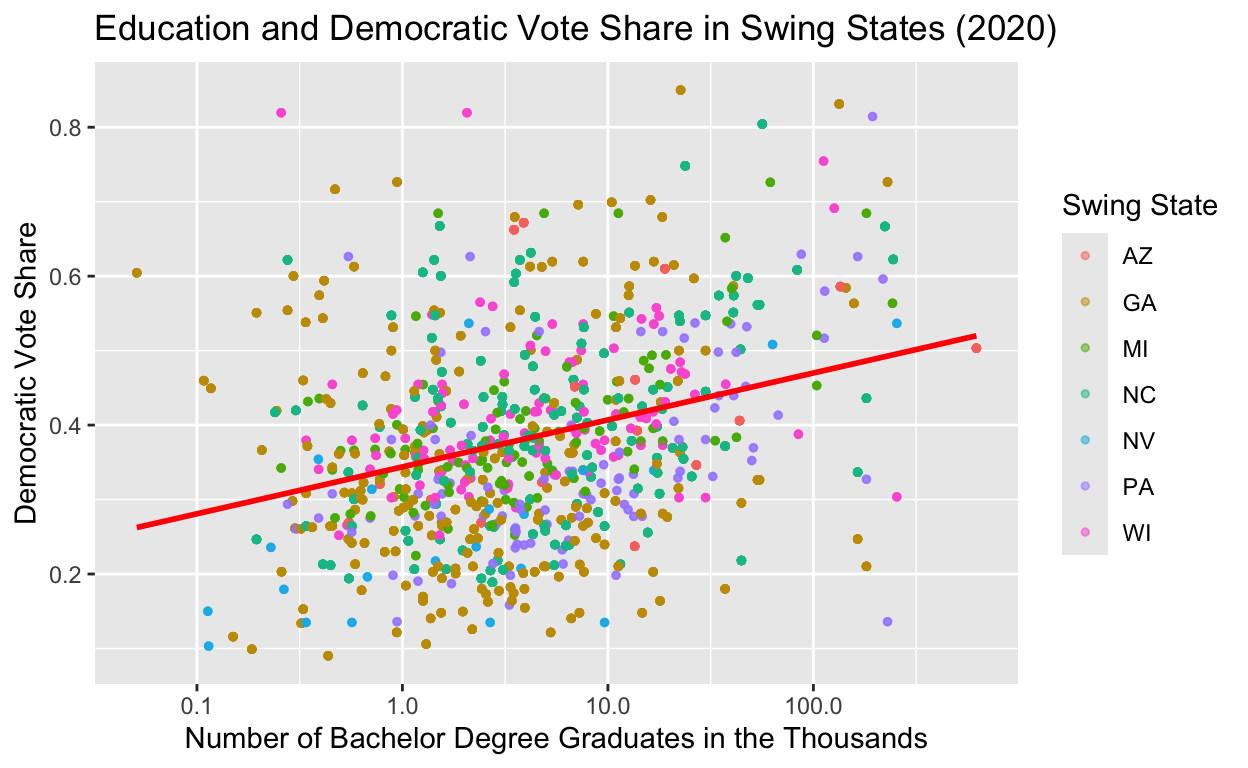
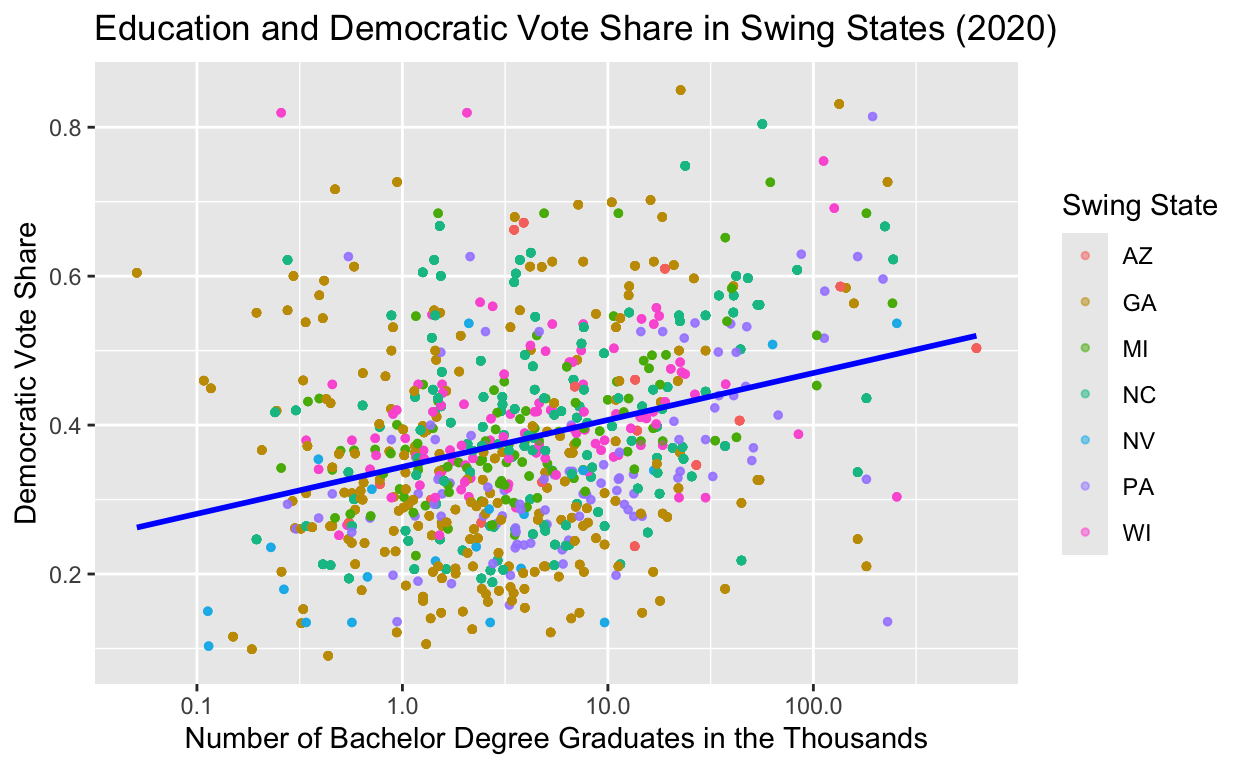
start of pm4

diff --git a/index.html b/index.html
@@ -116,7 +116,7 @@ code span.wa { color: #5e5e5e; font-style: italic; } /* Warning */
   <!--/radix_placeholder_rmarkdown_metadata-->
   
   <script type="text/json" id="radix-resource-manifest">
-  {"type":"character","attributes":{},"value":["data/countypres_2000-2024.csv","index_files/anchor-4.2.2/anchor.min.js","index_files/bowser-1.9.3/bowser.min.js","index_files/distill-2.2.21/template.v2.js","index_files/figure-html5/unnamed-chunk-5-1.png","index_files/header-attrs-2.17/header-attrs.js","index_files/header-attrs-2.30/header-attrs.js","index_files/jquery-3.6.0/jquery-3.6.0.js","index_files/jquery-3.6.0/jquery-3.6.0.min.js","index_files/jquery-3.6.0/jquery-3.6.0.min.map","index_files/popper-2.6.0/popper.min.js","index_files/tippy-6.2.7/tippy-bundle.umd.min.js","index_files/tippy-6.2.7/tippy-light-border.css","index_files/tippy-6.2.7/tippy.css","index_files/tippy-6.2.7/tippy.umd.min.js","index_files/webcomponents-2.0.0/webcomponents.js"]}
+  {"type":"character","attributes":{},"value":["data/countypres_2000-2024.csv","index_files/anchor-4.2.2/anchor.min.js","index_files/bowser-1.9.3/bowser.min.js","index_files/distill-2.2.21/template.v2.js","index_files/figure-html5/unnamed-chunk-5-1.png","index_files/figure-html5/unnamed-chunk-6-1.png","index_files/figure-html5/unnamed-chunk-7-1.png","index_files/header-attrs-2.17/header-attrs.js","index_files/header-attrs-2.30/header-attrs.js","index_files/jquery-3.6.0/jquery-3.6.0.js","index_files/jquery-3.6.0/jquery-3.6.0.min.js","index_files/jquery-3.6.0/jquery-3.6.0.min.map","index_files/popper-2.6.0/popper.min.js","index_files/tippy-6.2.7/tippy-bundle.umd.min.js","index_files/tippy-6.2.7/tippy-light-border.css","index_files/tippy-6.2.7/tippy.css","index_files/tippy-6.2.7/tippy.umd.min.js","index_files/webcomponents-2.0.0/webcomponents.js"]}
   </script>
   <!--radix_placeholder_navigation_in_header-->
   <!--/radix_placeholder_navigation_in_header-->
@@ -1547,9 +1547,9 @@ code span.wa { color: #5e5e5e; font-style: italic; } /* Warning */
 <h2 id="project-thoughts">Project thoughts</h2>
 <p>I am interested in exploring data related to swing and battleground states. I am from Minnesota, which is the longest-standing “blue” state since 1976. But now I live in a key swing state- Wisconsin being a huge factor in presidential election victories. I want to look into data about what factors leads states to swing certain ways and how it changes across elections. I would like to look into candidate’s platforms over the recent presidential elections, as well as geographic and demographic elements as well. Ultimately, the goal of the final project would be to get some sort of insight into what factors contribute to battleground states voting the way they do depending on the election year.</p>
 <h2 id="research-proposal">Research Proposal</h2>
-<p>My research question is: How do the current state demographics- and the fluctuation between election years- relate to which president and party key battleground state constituents cast their vote to? My hypothesis is that changes in education levels, racial demographics, and geographic changes/movement determine which party is expected to win in a swing state. More education, diversity, and urbanization leads to Democratic victory.This is rooted in the modern realignment theory, which is the idea that shifts in voter allegiance shifts based on cultural and economic issues. My explanatory variables of interest are education levels (college graduates), percent/number of non-white voters in the state, and distribution of populations is urban and rural areas. I want to look at the variation and how they have changed in comparison to which party won the state’s electoral college votes. My outcome variable will be the percentage of Democrat votes that given election year. To prove my hypothesis I would need to see positive change in regard to the variables in the same election cycle that the Democrat nominee won the presidency.</p>
+<p>My research question is: How do the current state education statistics- and the fluctuation between election years- relate to which president and party key battleground state constituents cast their vote to? My hypothesis is that changes in education levels determine which party is expected to win in a swing state. More education leads to Democratic victory.This is rooted in the modern realignment theory, which is the idea that shifts in voter allegiance shifts based on cultural and economic issues. My explanatory variables of interest are education levels (college graduates). I want to look at the variation and how they have changed in comparison to which party won the state’s electoral college votes. My outcome variable will be the percentage of Democrat votes that given election year. To prove my hypothesis I would need to see positive change in regard to the variables in the same election cycle that the Democrat nominee won the presidency.</p>
 <h2 id="code-for-data-to-be-used-in-project">Code for Data to be Used in Project</h2>
-<p>I installed the tidycensus package to get the data for education, racial demography, and urbanization to compare across US censuses</p>
+<p>I installed the tidycensus package to get the data for education to compare across US censuses</p>
 <div class="layout-chunk" data-layout="l-body">
 <div class="sourceCode">
 <pre class="sourceCode r"><code class="sourceCode r"><span><span class='kw'><a href='https://rdrr.io/r/base/library.html'>library</a></span><span class='op'>(</span><span class='va'><a href='https://walker-data.com/tidycensus/'>tidycensus</a></span><span class='op'>)</span></span></code></pre>
@@ -1641,17 +1641,17 @@ $ mode           &lt;chr&gt; &quot;TOTAL&quot;, &quot;TOTAL&quot;, &quot;TOTAL&q
 5 B01001A_005 Estimate!!Total:!!Male:!!10 to 14 yea… SEX BY… tract    
 6 B01001A_006 Estimate!!Total:!!Male:!!15 to 17 yea… SEX BY… tract    </code></pre>
 <div class="sourceCode">
-<pre class="sourceCode r"><code class="sourceCode r"><span><span class='va'>education</span> <span class='op'>&lt;-</span> <span class='fu'><a href='https://walker-data.com/tidycensus/reference/get_acs.html'>get_acs</a></span><span class='op'>(</span></span>
+<pre class="sourceCode r"><code class="sourceCode r"><span><span class='va'>education_2020</span> <span class='op'>&lt;-</span> <span class='fu'><a href='https://walker-data.com/tidycensus/reference/get_acs.html'>get_acs</a></span><span class='op'>(</span></span>
 <span>  geography <span class='op'>=</span> <span class='st'>"county"</span>, </span>
 <span>  state <span class='op'>=</span> <span class='va'>swing_states</span>, </span>
 <span>  variables <span class='op'>=</span> <span class='st'>"B15003_022"</span>, </span>
 <span>  year <span class='op'>=</span> <span class='fl'>2020</span><span class='op'>)</span></span>
 <span></span>
 <span></span>
-<span><span class='va'>education</span><span class='op'>$</span><span class='va'>county_name</span> <span class='op'>&lt;-</span> <span class='fu'><a href='https://rdrr.io/r/base/grep.html'>gsub</a></span><span class='op'>(</span><span class='st'>" County,.*"</span>, <span class='st'>""</span>, <span class='va'>education</span><span class='op'>$</span><span class='va'>NAME</span><span class='op'>)</span></span>
-<span><span class='va'>education</span><span class='op'>$</span><span class='va'>county_name</span> <span class='op'>&lt;-</span> <span class='fu'><a href='https://rdrr.io/r/base/chartr.html'>toupper</a></span><span class='op'>(</span><span class='va'>education</span><span class='op'>$</span><span class='va'>county_name</span><span class='op'>)</span></span>
+<span><span class='va'>education_2020</span><span class='op'>$</span><span class='va'>county_name</span> <span class='op'>&lt;-</span> <span class='fu'><a href='https://rdrr.io/r/base/grep.html'>gsub</a></span><span class='op'>(</span><span class='st'>" County,.*"</span>, <span class='st'>""</span>, <span class='va'>education_2020</span><span class='op'>$</span><span class='va'>NAME</span><span class='op'>)</span></span>
+<span><span class='va'>education_2020</span><span class='op'>$</span><span class='va'>county_name</span> <span class='op'>&lt;-</span> <span class='fu'><a href='https://rdrr.io/r/base/chartr.html'>toupper</a></span><span class='op'>(</span><span class='va'>education_2020</span><span class='op'>$</span><span class='va'>county_name</span><span class='op'>)</span></span>
 <span></span>
-<span><span class='va'>swing2020_education</span> <span class='op'>&lt;-</span> <span class='fu'><a href='https://rdrr.io/r/base/merge.html'>merge</a></span><span class='op'>(</span><span class='va'>swing_2020</span>, <span class='va'>education</span>, by <span class='op'>=</span> <span class='st'>"county_name"</span><span class='op'>)</span></span></code></pre>
+<span><span class='va'>swing2020_education</span> <span class='op'>&lt;-</span> <span class='fu'><a href='https://rdrr.io/r/base/merge.html'>merge</a></span><span class='op'>(</span><span class='va'>swing_2020</span>, <span class='va'>education_2020</span>, by <span class='op'>=</span> <span class='st'>"county_name"</span><span class='op'>)</span></span></code></pre>
 </div>
 </div>
 <p>Lastly, I created a scatterplot to showcase my data to find a correlation between education and democratic votes in the counties of swing states.</p>
@@ -1659,7 +1659,7 @@ $ mode           &lt;chr&gt; &quot;TOTAL&quot;, &quot;TOTAL&quot;, &quot;TOTAL&q
 <div class="sourceCode">
 <pre class="sourceCode r"><code class="sourceCode r"><span><span class='va'>swing2020_education_plot</span> <span class='op'>&lt;-</span> <span class='fu'><a href='https://ggplot2.tidyverse.org/reference/ggplot.html'>ggplot</a></span><span class='op'>(</span><span class='va'>swing2020_education</span>, <span class='fu'><a href='https://ggplot2.tidyverse.org/reference/aes.html'>aes</a></span><span class='op'>(</span>x <span class='op'>=</span> <span class='va'>estimate</span> <span class='op'>/</span><span class='fl'>1000</span>, y <span class='op'>=</span> <span class='va'>demvoteshare</span>, color <span class='op'>=</span> <span class='va'>state_po</span><span class='op'>)</span><span class='op'>)</span> <span class='op'>+</span></span>
 <span>  <span class='fu'><a href='https://ggplot2.tidyverse.org/reference/geom_point.html'>geom_point</a></span><span class='op'>(</span>size <span class='op'>=</span> <span class='fl'>1</span>, alpha <span class='op'>=</span> <span class='fl'>0.5</span><span class='op'>)</span> <span class='op'>+</span></span>
-<span>  <span class='fu'><a href='https://ggplot2.tidyverse.org/reference/geom_smooth.html'>geom_smooth</a></span><span class='op'>(</span>method <span class='op'>=</span> <span class='st'>"lm"</span>, se<span class='op'>=</span> <span class='cn'>FALSE</span>, color <span class='op'>=</span> <span class='st'>"red"</span><span class='op'>)</span> <span class='op'>+</span></span>
+<span>  <span class='fu'><a href='https://ggplot2.tidyverse.org/reference/geom_smooth.html'>geom_smooth</a></span><span class='op'>(</span>method <span class='op'>=</span> <span class='st'>"lm"</span>, se<span class='op'>=</span> <span class='cn'>FALSE</span>, color <span class='op'>=</span> <span class='st'>"blue"</span><span class='op'>)</span> <span class='op'>+</span></span>
 <span>  <span class='fu'><a href='https://ggplot2.tidyverse.org/reference/scale_continuous.html'>scale_x_log10</a></span><span class='op'>(</span><span class='op'>)</span> <span class='op'>+</span></span>
 <span>  <span class='fu'><a href='https://ggplot2.tidyverse.org/reference/labs.html'>labs</a></span><span class='op'>(</span></span>
 <span>    x <span class='op'>=</span> <span class='st'>"Number of Bachelor Degree Graduates in the Thousands"</span>, </span>
@@ -1672,9 +1672,171 @@ $ mode           &lt;chr&gt; &quot;TOTAL&quot;, &quot;TOTAL&quot;, &quot;TOTAL&q
 </div>
 <p><img src="index_files/figure-html5/unnamed-chunk-5-1.png" alt="" width="624" /></p>
 </div>
-<h2 id="ai-disclosure-statement">AI Disclosure Statement</h2>
+<h3 id="ai-disclosure-statement">AI Disclosure Statement</h3>
 <p>I used ChatGPT a couple times to create this data visualization. In my second chunk of code in focusing on the education variable, I was confused how to use the tidycensus library and all that code, so I inputed in to ChatGPT to ask to read it to find the names of data I wanted to use (for example that the average education is called estimate) because tidycensus takes data from the US census website so it is accissible that way. I looked up questions like “how to match my election data to the county data” and ChatGPT told me to use gsub and toupper, which I hadn’t heard of before. I also asked it how to see the functions within the tidycensus library and it showed me the head() function and to use asc5 and to narrow down on 2020 and other variables specific to the census data.</p>
-<div class="sourceCode" id="cb5"><pre class="sourceCode r distill-force-highlighting-css"><code class="sourceCode r"></code></pre></div>
+<h2 id="data-comparison-and-analysis-for-milestone-4">Data Comparison and Analysis for Milestone 4</h2>
+<h3 id="data-visualization-comparisons">Data Visualization Comparisons</h3>
+<p>Next, I will compare the education and democratic vote share in swing states to 2016 data, when a republic president (Donald Trump) was elected by doing the exact steps I followed to create my data visualization for 2020.</p>
+<div class="layout-chunk" data-layout="l-body">
+<div class="sourceCode">
+<pre class="sourceCode r"><code class="sourceCode r"><span><span class='va'>swing_2016</span> <span class='op'>&lt;-</span> <span class='va'>prescountydata</span> <span class='op'>|&gt;</span></span>
+<span>  <span class='fu'><a href='https://dplyr.tidyverse.org/reference/filter.html'>filter</a></span><span class='op'>(</span><span class='va'>state_po</span> <span class='op'><a href='https://rdrr.io/r/base/match.html'>%in%</a></span> <span class='va'>swing_states</span>, <span class='va'>year</span> <span class='op'>==</span> <span class='fl'>2016</span><span class='op'>)</span></span>
+<span></span>
+<span><span class='va'>swing_2016</span> <span class='op'>&lt;-</span> <span class='va'>swing_2016</span> <span class='op'>|&gt;</span></span>
+<span>  <span class='fu'><a href='https://dplyr.tidyverse.org/reference/group_by.html'>group_by</a></span><span class='op'>(</span><span class='va'>state_po</span>, <span class='va'>county_name</span><span class='op'>)</span> <span class='op'>|&gt;</span></span>
+<span>  <span class='fu'><a href='https://dplyr.tidyverse.org/reference/mutate.html'>mutate</a></span><span class='op'>(</span>demvotes <span class='op'>=</span> <span class='fu'><a href='https://rdrr.io/r/base/sum.html'>sum</a></span><span class='op'>(</span><span class='fu'><a href='https://dplyr.tidyverse.org/reference/if_else.html'>if_else</a></span><span class='op'>(</span><span class='va'>party</span> <span class='op'>==</span> <span class='st'>"DEMOCRAT"</span>, <span class='va'>candidatevotes</span>, <span class='fl'>0</span><span class='op'>)</span><span class='op'>)</span><span class='op'>)</span> <span class='op'>|&gt;</span></span>
+<span>  <span class='fu'><a href='https://dplyr.tidyverse.org/reference/mutate.html'>mutate</a></span><span class='op'>(</span>demvoteshare <span class='op'>=</span> <span class='va'>demvotes</span> <span class='op'>/</span> <span class='va'>totalvotes</span><span class='op'>)</span></span>
+<span></span>
+<span></span>
+<span><span class='va'>acs_variables2016</span> <span class='op'>&lt;-</span> <span class='fu'><a href='https://walker-data.com/tidycensus/reference/load_variables.html'>load_variables</a></span><span class='op'>(</span><span class='fl'>2016</span>, <span class='st'>"acs5"</span><span class='op'>)</span></span>
+<span><span class='fu'><a href='https://rdrr.io/r/utils/head.html'>head</a></span><span class='op'>(</span><span class='va'>acs_variables2016</span><span class='op'>)</span></span></code></pre>
+</div>
+<pre><code># A tibble: 6 × 4
+  name        label                                concept   geography
+  &lt;chr&gt;       &lt;chr&gt;                                &lt;chr&gt;     &lt;chr&gt;    
+1 B00001_001  Estimate!!Total                      UNWEIGHT… block gr…
+2 B00002_001  Estimate!!Total                      UNWEIGHT… block gr…
+3 B01001A_001 Estimate!!Total                      SEX BY A… tract    
+4 B01001A_002 Estimate!!Total!!Male                SEX BY A… tract    
+5 B01001A_003 Estimate!!Total!!Male!!Under 5 years SEX BY A… tract    
+6 B01001A_004 Estimate!!Total!!Male!!5 to 9 years  SEX BY A… tract    </code></pre>
+<div class="sourceCode">
+<pre class="sourceCode r"><code class="sourceCode r"><span><span class='va'>education_2016</span> <span class='op'>&lt;-</span> <span class='fu'><a href='https://walker-data.com/tidycensus/reference/get_acs.html'>get_acs</a></span><span class='op'>(</span></span>
+<span>  geography <span class='op'>=</span> <span class='st'>"county"</span>, </span>
+<span>  state <span class='op'>=</span> <span class='va'>swing_states</span>, </span>
+<span>  variables <span class='op'>=</span> <span class='st'>"B15003_022"</span>, </span>
+<span>  year <span class='op'>=</span> <span class='fl'>2016</span><span class='op'>)</span></span>
+<span></span>
+<span></span>
+<span><span class='va'>education_2016</span><span class='op'>$</span><span class='va'>county_name</span> <span class='op'>&lt;-</span> <span class='fu'><a href='https://rdrr.io/r/base/grep.html'>gsub</a></span><span class='op'>(</span><span class='st'>" County,.*"</span>, <span class='st'>""</span>, <span class='va'>education_2016</span><span class='op'>$</span><span class='va'>NAME</span><span class='op'>)</span></span>
+<span><span class='va'>education_2016</span><span class='op'>$</span><span class='va'>county_name</span> <span class='op'>&lt;-</span> <span class='fu'><a href='https://rdrr.io/r/base/chartr.html'>toupper</a></span><span class='op'>(</span><span class='va'>education_2016</span><span class='op'>$</span><span class='va'>county_name</span><span class='op'>)</span></span>
+<span></span>
+<span><span class='va'>swing2016_education</span> <span class='op'>&lt;-</span> <span class='fu'><a href='https://rdrr.io/r/base/merge.html'>merge</a></span><span class='op'>(</span><span class='va'>swing_2016</span>, <span class='va'>education_2016</span>, by <span class='op'>=</span> <span class='st'>"county_name"</span><span class='op'>)</span></span>
+<span></span>
+<span></span>
+<span><span class='va'>swing2016_education_plot</span> <span class='op'>&lt;-</span> <span class='fu'><a href='https://ggplot2.tidyverse.org/reference/ggplot.html'>ggplot</a></span><span class='op'>(</span><span class='va'>swing2016_education</span>, <span class='fu'><a href='https://ggplot2.tidyverse.org/reference/aes.html'>aes</a></span><span class='op'>(</span>x <span class='op'>=</span> <span class='va'>estimate</span> <span class='op'>/</span><span class='fl'>1000</span>, y <span class='op'>=</span> <span class='va'>demvoteshare</span>, color <span class='op'>=</span> <span class='va'>state_po</span><span class='op'>)</span><span class='op'>)</span> <span class='op'>+</span></span>
+<span>  <span class='fu'><a href='https://ggplot2.tidyverse.org/reference/geom_point.html'>geom_point</a></span><span class='op'>(</span>size <span class='op'>=</span> <span class='fl'>1</span>, alpha <span class='op'>=</span> <span class='fl'>0.5</span><span class='op'>)</span> <span class='op'>+</span></span>
+<span>  <span class='fu'><a href='https://ggplot2.tidyverse.org/reference/geom_smooth.html'>geom_smooth</a></span><span class='op'>(</span>method <span class='op'>=</span> <span class='st'>"lm"</span>, se<span class='op'>=</span> <span class='cn'>FALSE</span>, color <span class='op'>=</span> <span class='st'>"blue"</span><span class='op'>)</span> <span class='op'>+</span></span>
+<span>  <span class='fu'><a href='https://ggplot2.tidyverse.org/reference/scale_continuous.html'>scale_x_log10</a></span><span class='op'>(</span><span class='op'>)</span> <span class='op'>+</span></span>
+<span>  <span class='fu'><a href='https://ggplot2.tidyverse.org/reference/labs.html'>labs</a></span><span class='op'>(</span></span>
+<span>    x <span class='op'>=</span> <span class='st'>"Number of Bachelor Degree Graduates in the Thousands"</span>, </span>
+<span>    y <span class='op'>=</span> <span class='st'>"Democratic Vote Share"</span>, </span>
+<span>    title <span class='op'>=</span> <span class='st'>"Education and Democratic Vote Share in Swing States (2016)"</span>, </span>
+<span>    color <span class='op'>=</span> <span class='st'>"Swing State"</span></span>
+<span>  <span class='op'>)</span></span>
+<span></span>
+<span><span class='va'>swing2016_education_plot</span></span></code></pre>
+</div>
+<p><img src="index_files/figure-html5/unnamed-chunk-6-1.png" alt="" width="624" /></p>
+</div>
+<p>Then, I will do the same thing, but in 2012 when Barack Obama, the democratic candidate, was elected.</p>
+<div class="layout-chunk" data-layout="l-body">
+<div class="sourceCode">
+<pre class="sourceCode r"><code class="sourceCode r"><span><span class='va'>swing_2012</span> <span class='op'>&lt;-</span> <span class='va'>prescountydata</span> <span class='op'>|&gt;</span></span>
+<span>  <span class='fu'><a href='https://dplyr.tidyverse.org/reference/filter.html'>filter</a></span><span class='op'>(</span><span class='va'>state_po</span> <span class='op'><a href='https://rdrr.io/r/base/match.html'>%in%</a></span> <span class='va'>swing_states</span>, <span class='va'>year</span> <span class='op'>==</span> <span class='fl'>2012</span><span class='op'>)</span></span>
+<span></span>
+<span><span class='va'>swing_2012</span> <span class='op'>&lt;-</span> <span class='va'>swing_2012</span> <span class='op'>|&gt;</span></span>
+<span>  <span class='fu'><a href='https://dplyr.tidyverse.org/reference/group_by.html'>group_by</a></span><span class='op'>(</span><span class='va'>state_po</span>, <span class='va'>county_name</span><span class='op'>)</span> <span class='op'>|&gt;</span></span>
+<span>  <span class='fu'><a href='https://dplyr.tidyverse.org/reference/mutate.html'>mutate</a></span><span class='op'>(</span>demvotes <span class='op'>=</span> <span class='fu'><a href='https://rdrr.io/r/base/sum.html'>sum</a></span><span class='op'>(</span><span class='fu'><a href='https://dplyr.tidyverse.org/reference/if_else.html'>if_else</a></span><span class='op'>(</span><span class='va'>party</span> <span class='op'>==</span> <span class='st'>"DEMOCRAT"</span>, <span class='va'>candidatevotes</span>, <span class='fl'>0</span><span class='op'>)</span><span class='op'>)</span><span class='op'>)</span> <span class='op'>|&gt;</span></span>
+<span>  <span class='fu'><a href='https://dplyr.tidyverse.org/reference/mutate.html'>mutate</a></span><span class='op'>(</span>demvoteshare <span class='op'>=</span> <span class='va'>demvotes</span> <span class='op'>/</span> <span class='va'>totalvotes</span><span class='op'>)</span></span>
+<span></span>
+<span></span>
+<span><span class='va'>acs_variables2012</span> <span class='op'>&lt;-</span> <span class='fu'><a href='https://walker-data.com/tidycensus/reference/load_variables.html'>load_variables</a></span><span class='op'>(</span><span class='fl'>2012</span>, <span class='st'>"acs5"</span><span class='op'>)</span></span>
+<span><span class='fu'><a href='https://rdrr.io/r/utils/head.html'>head</a></span><span class='op'>(</span><span class='va'>acs_variables2012</span><span class='op'>)</span></span></code></pre>
+</div>
+<pre><code># A tibble: 6 × 4
+  name        label                                concept   geography
+  &lt;chr&gt;       &lt;chr&gt;                                &lt;chr&gt;     &lt;chr&gt;    
+1 B00001_001  Estimate!!Total                      UNWEIGHT… tract    
+2 B00002_001  Estimate!!Total                      UNWEIGHT… tract    
+3 B01001A_001 Estimate!!Total                      SEX BY A… tract    
+4 B01001A_002 Estimate!!Total!!Male                SEX BY A… tract    
+5 B01001A_003 Estimate!!Total!!Male!!Under 5 years SEX BY A… tract    
+6 B01001A_004 Estimate!!Total!!Male!!5 to 9 years  SEX BY A… tract    </code></pre>
+<div class="sourceCode">
+<pre class="sourceCode r"><code class="sourceCode r"><span><span class='va'>education_2012</span> <span class='op'>&lt;-</span> <span class='fu'><a href='https://walker-data.com/tidycensus/reference/get_acs.html'>get_acs</a></span><span class='op'>(</span></span>
+<span>  geography <span class='op'>=</span> <span class='st'>"county"</span>, </span>
+<span>  state <span class='op'>=</span> <span class='va'>swing_states</span>, </span>
+<span>  variables <span class='op'>=</span> <span class='st'>"B15003_022"</span>, </span>
+<span>  year <span class='op'>=</span> <span class='fl'>2012</span><span class='op'>)</span></span>
+<span></span>
+<span></span>
+<span><span class='va'>education_2012</span><span class='op'>$</span><span class='va'>county_name</span> <span class='op'>&lt;-</span> <span class='fu'><a href='https://rdrr.io/r/base/grep.html'>gsub</a></span><span class='op'>(</span><span class='st'>" County,.*"</span>, <span class='st'>""</span>, <span class='va'>education_2012</span><span class='op'>$</span><span class='va'>NAME</span><span class='op'>)</span></span>
+<span><span class='va'>education_2012</span><span class='op'>$</span><span class='va'>county_name</span> <span class='op'>&lt;-</span> <span class='fu'><a href='https://rdrr.io/r/base/chartr.html'>toupper</a></span><span class='op'>(</span><span class='va'>education_2012</span><span class='op'>$</span><span class='va'>county_name</span><span class='op'>)</span></span>
+<span></span>
+<span><span class='va'>swing2012_education</span> <span class='op'>&lt;-</span> <span class='fu'><a href='https://rdrr.io/r/base/merge.html'>merge</a></span><span class='op'>(</span><span class='va'>swing_2012</span>, <span class='va'>education_2012</span>, by <span class='op'>=</span> <span class='st'>"county_name"</span><span class='op'>)</span></span>
+<span></span>
+<span></span>
+<span><span class='va'>swing2012_education_plot</span> <span class='op'>&lt;-</span> <span class='fu'><a href='https://ggplot2.tidyverse.org/reference/ggplot.html'>ggplot</a></span><span class='op'>(</span><span class='va'>swing2012_education</span>, <span class='fu'><a href='https://ggplot2.tidyverse.org/reference/aes.html'>aes</a></span><span class='op'>(</span>x <span class='op'>=</span> <span class='va'>estimate</span> <span class='op'>/</span><span class='fl'>1000</span>, y <span class='op'>=</span> <span class='va'>demvoteshare</span>, color <span class='op'>=</span> <span class='va'>state_po</span><span class='op'>)</span><span class='op'>)</span> <span class='op'>+</span></span>
+<span>  <span class='fu'><a href='https://ggplot2.tidyverse.org/reference/geom_point.html'>geom_point</a></span><span class='op'>(</span>size <span class='op'>=</span> <span class='fl'>1</span>, alpha <span class='op'>=</span> <span class='fl'>0.5</span><span class='op'>)</span> <span class='op'>+</span></span>
+<span>  <span class='fu'><a href='https://ggplot2.tidyverse.org/reference/geom_smooth.html'>geom_smooth</a></span><span class='op'>(</span>method <span class='op'>=</span> <span class='st'>"lm"</span>, se<span class='op'>=</span> <span class='cn'>FALSE</span>, color <span class='op'>=</span> <span class='st'>"blue"</span><span class='op'>)</span> <span class='op'>+</span></span>
+<span>  <span class='fu'><a href='https://ggplot2.tidyverse.org/reference/scale_continuous.html'>scale_x_log10</a></span><span class='op'>(</span><span class='op'>)</span> <span class='op'>+</span></span>
+<span>  <span class='fu'><a href='https://ggplot2.tidyverse.org/reference/labs.html'>labs</a></span><span class='op'>(</span></span>
+<span>    x <span class='op'>=</span> <span class='st'>"Number of Bachelor Degree Graduates in the Thousands"</span>, </span>
+<span>    y <span class='op'>=</span> <span class='st'>"Democratic Vote Share"</span>, </span>
+<span>    title <span class='op'>=</span> <span class='st'>"Education and Democratic Vote Share in Swing States (2012)"</span>, </span>
+<span>    color <span class='op'>=</span> <span class='st'>"Swing State"</span></span>
+<span>  <span class='op'>)</span></span>
+<span></span>
+<span><span class='va'>swing2012_education_plot</span></span></code></pre>
+</div>
+<p><img src="index_files/figure-html5/unnamed-chunk-7-1.png" alt="" width="624" /></p>
+</div>
+<p>Next, I put all this data used for the scatterplots into a table with the average numbers of bachelor degrees and average democratic vote shares in the swing states for each election year.</p>
+<div class="layout-chunk" data-layout="l-body">
+<div class="sourceCode">
+<pre class="sourceCode r"><code class="sourceCode r"><span><span class='va'>avgs_2012</span> <span class='op'>&lt;-</span> <span class='va'>swing2012_education</span> <span class='op'>|&gt;</span></span>
+<span>  <span class='fu'><a href='https://dplyr.tidyverse.org/reference/summarise.html'>summarize</a></span><span class='op'>(</span>avg_bd2012 <span class='op'>=</span> <span class='fu'><a href='https://rdrr.io/r/base/mean.html'>mean</a></span><span class='op'>(</span><span class='va'>estimate</span> <span class='op'>/</span> <span class='fl'>1000</span>, na.rm <span class='op'>=</span> <span class='cn'>TRUE</span><span class='op'>)</span>,</span>
+<span>            avg_demvotes2012 <span class='op'>=</span> <span class='fu'><a href='https://rdrr.io/r/base/mean.html'>mean</a></span><span class='op'>(</span><span class='va'>demvoteshare</span>, na.rm <span class='op'>=</span> <span class='cn'>TRUE</span><span class='op'>)</span><span class='op'>)</span></span>
+<span></span>
+<span><span class='va'>avgs_2016</span> <span class='op'>&lt;-</span> <span class='va'>swing2016_education</span> <span class='op'>|&gt;</span></span>
+<span>  <span class='fu'><a href='https://dplyr.tidyverse.org/reference/summarise.html'>summarize</a></span><span class='op'>(</span>avg_bd2016 <span class='op'>=</span> <span class='fu'><a href='https://rdrr.io/r/base/mean.html'>mean</a></span><span class='op'>(</span><span class='va'>estimate</span> <span class='op'>/</span> <span class='fl'>1000</span>, na.rm <span class='op'>=</span> <span class='cn'>TRUE</span><span class='op'>)</span>, </span>
+<span>            avg_demvotes2016 <span class='op'>=</span> <span class='fu'><a href='https://rdrr.io/r/base/mean.html'>mean</a></span><span class='op'>(</span><span class='va'>demvoteshare</span>, na.rm <span class='op'>=</span> <span class='cn'>TRUE</span><span class='op'>)</span><span class='op'>)</span></span>
+<span></span>
+<span><span class='va'>avgs_2020</span> <span class='op'>&lt;-</span> <span class='va'>swing2020_education</span> <span class='op'>|&gt;</span></span>
+<span>  <span class='fu'><a href='https://dplyr.tidyverse.org/reference/summarise.html'>summarize</a></span><span class='op'>(</span>avg_bd2020 <span class='op'>=</span> <span class='fu'><a href='https://rdrr.io/r/base/mean.html'>mean</a></span><span class='op'>(</span><span class='va'>estimate</span> <span class='op'>/</span> <span class='fl'>1000</span>, na.rm <span class='op'>=</span> <span class='cn'>TRUE</span><span class='op'>)</span>, </span>
+<span>            avg_demvotes2020 <span class='op'>=</span> <span class='fu'><a href='https://rdrr.io/r/base/mean.html'>mean</a></span><span class='op'>(</span><span class='va'>demvoteshare</span>, na.rm <span class='op'>=</span> <span class='cn'>TRUE</span><span class='op'>)</span><span class='op'>)</span></span>
+<span></span>
+<span><span class='va'>avg_table_final</span> <span class='op'>&lt;-</span> <span class='fu'><a href='https://dplyr.tidyverse.org/reference/bind_cols.html'>bind_cols</a></span><span class='op'>(</span></span>
+<span>  `2012` <span class='op'>=</span> <span class='va'>avgs_2012</span>, `2016` <span class='op'>=</span> <span class='va'>avgs_2016</span>, `2020` <span class='op'>=</span> <span class='va'>avgs_2020</span><span class='op'>)</span></span>
+<span></span>
+<span><span class='fu'>knitr</span><span class='fu'>::</span><span class='fu'><a href='https://rdrr.io/pkg/knitr/man/kable.html'>kable</a></span><span class='op'>(</span><span class='va'>avg_table_final</span>, col.names <span class='op'>=</span> <span class='fu'><a href='https://rdrr.io/r/base/c.html'>c</a></span><span class='op'>(</span><span class='st'>"Mean BD 2012"</span>, <span class='st'>"Mean Dem Vote 2012"</span>, <span class='st'>"Mean BD 2016"</span>, <span class='st'>"Mean Dem Vote 2016"</span>, <span class='st'>"Mean BD 2020"</span>, <span class='st'>"Mean Dem Vote 2020"</span><span class='op'>)</span>, digits <span class='op'>=</span> <span class='fl'>2</span><span class='op'>)</span></span></code></pre>
+</div>
+<table style="width:100%;">
+<colgroup>
+<col style="width: 13%" />
+<col style="width: 19%" />
+<col style="width: 13%" />
+<col style="width: 19%" />
+<col style="width: 13%" />
+<col style="width: 19%" />
+</colgroup>
+<thead>
+<tr class="header">
+<th style="text-align: right;">Mean BD 2012</th>
+<th style="text-align: right;">Mean Dem Vote 2012</th>
+<th style="text-align: right;">Mean BD 2016</th>
+<th style="text-align: right;">Mean Dem Vote 2016</th>
+<th style="text-align: right;">Mean BD 2020</th>
+<th style="text-align: right;">Mean Dem Vote 2020</th>
+</tr>
+</thead>
+<tbody>
+<tr class="odd">
+<td style="text-align: right;">12.19</td>
+<td style="text-align: right;">0.42</td>
+<td style="text-align: right;">13.35</td>
+<td style="text-align: right;">0.36</td>
+<td style="text-align: right;">14.84</td>
+<td style="text-align: right;">0.38</td>
+</tr>
+</tbody>
+</table>
+</div>
+<h3 id="data-comparison-analysis">Data Comparison Analysis</h3>
+<p>My research question is: How do the current state education statistics- and the fluctuation between election years- relate to which president and party key battleground state constituents cast their vote to? My hypothesis is that changes in education levels determine which party is expected to win in a swing state. More education leads to Democratic victory.</p>
+<p>Data on education and democratic vote shares from the 2012, 2016, and 2020 elections</p>
+<div class="sourceCode" id="cb7"><pre class="sourceCode r distill-force-highlighting-css"><code class="sourceCode r"></code></pre></div>
 <!--radix_placeholder_article_footer-->
 <!--/radix_placeholder_article_footer-->
 </div>
